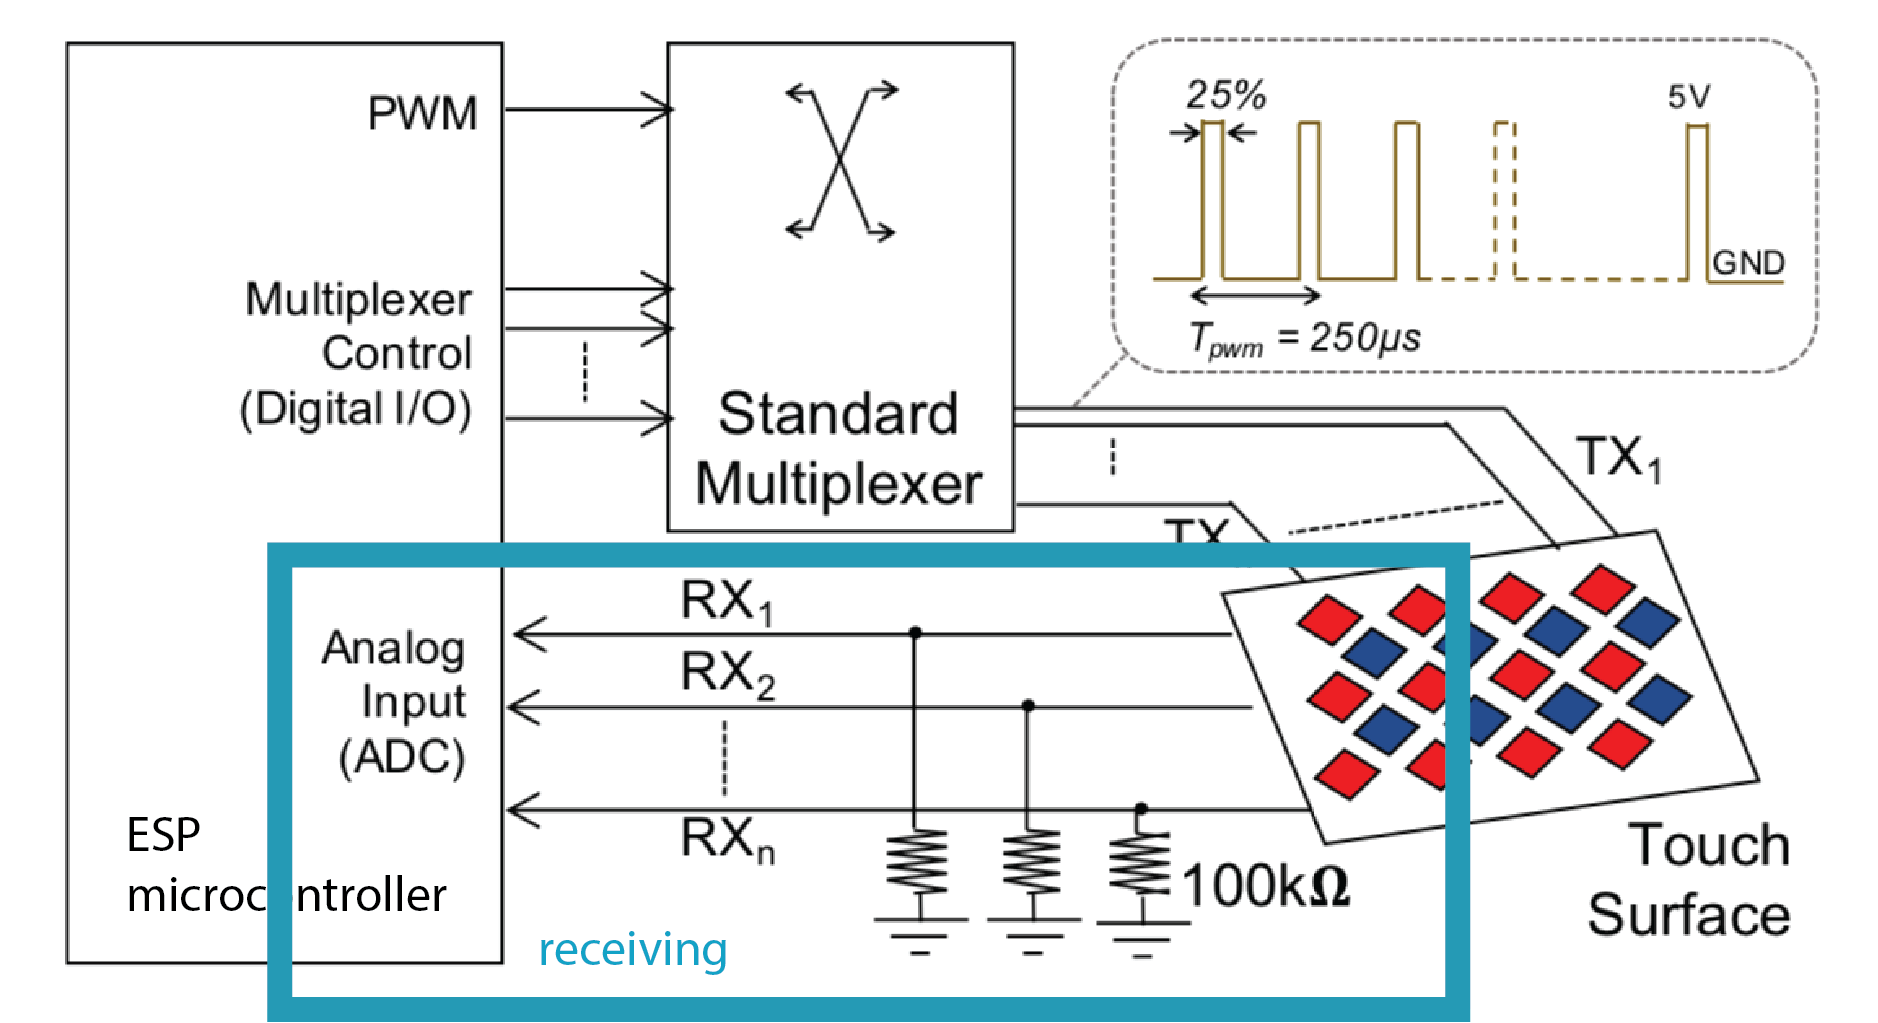
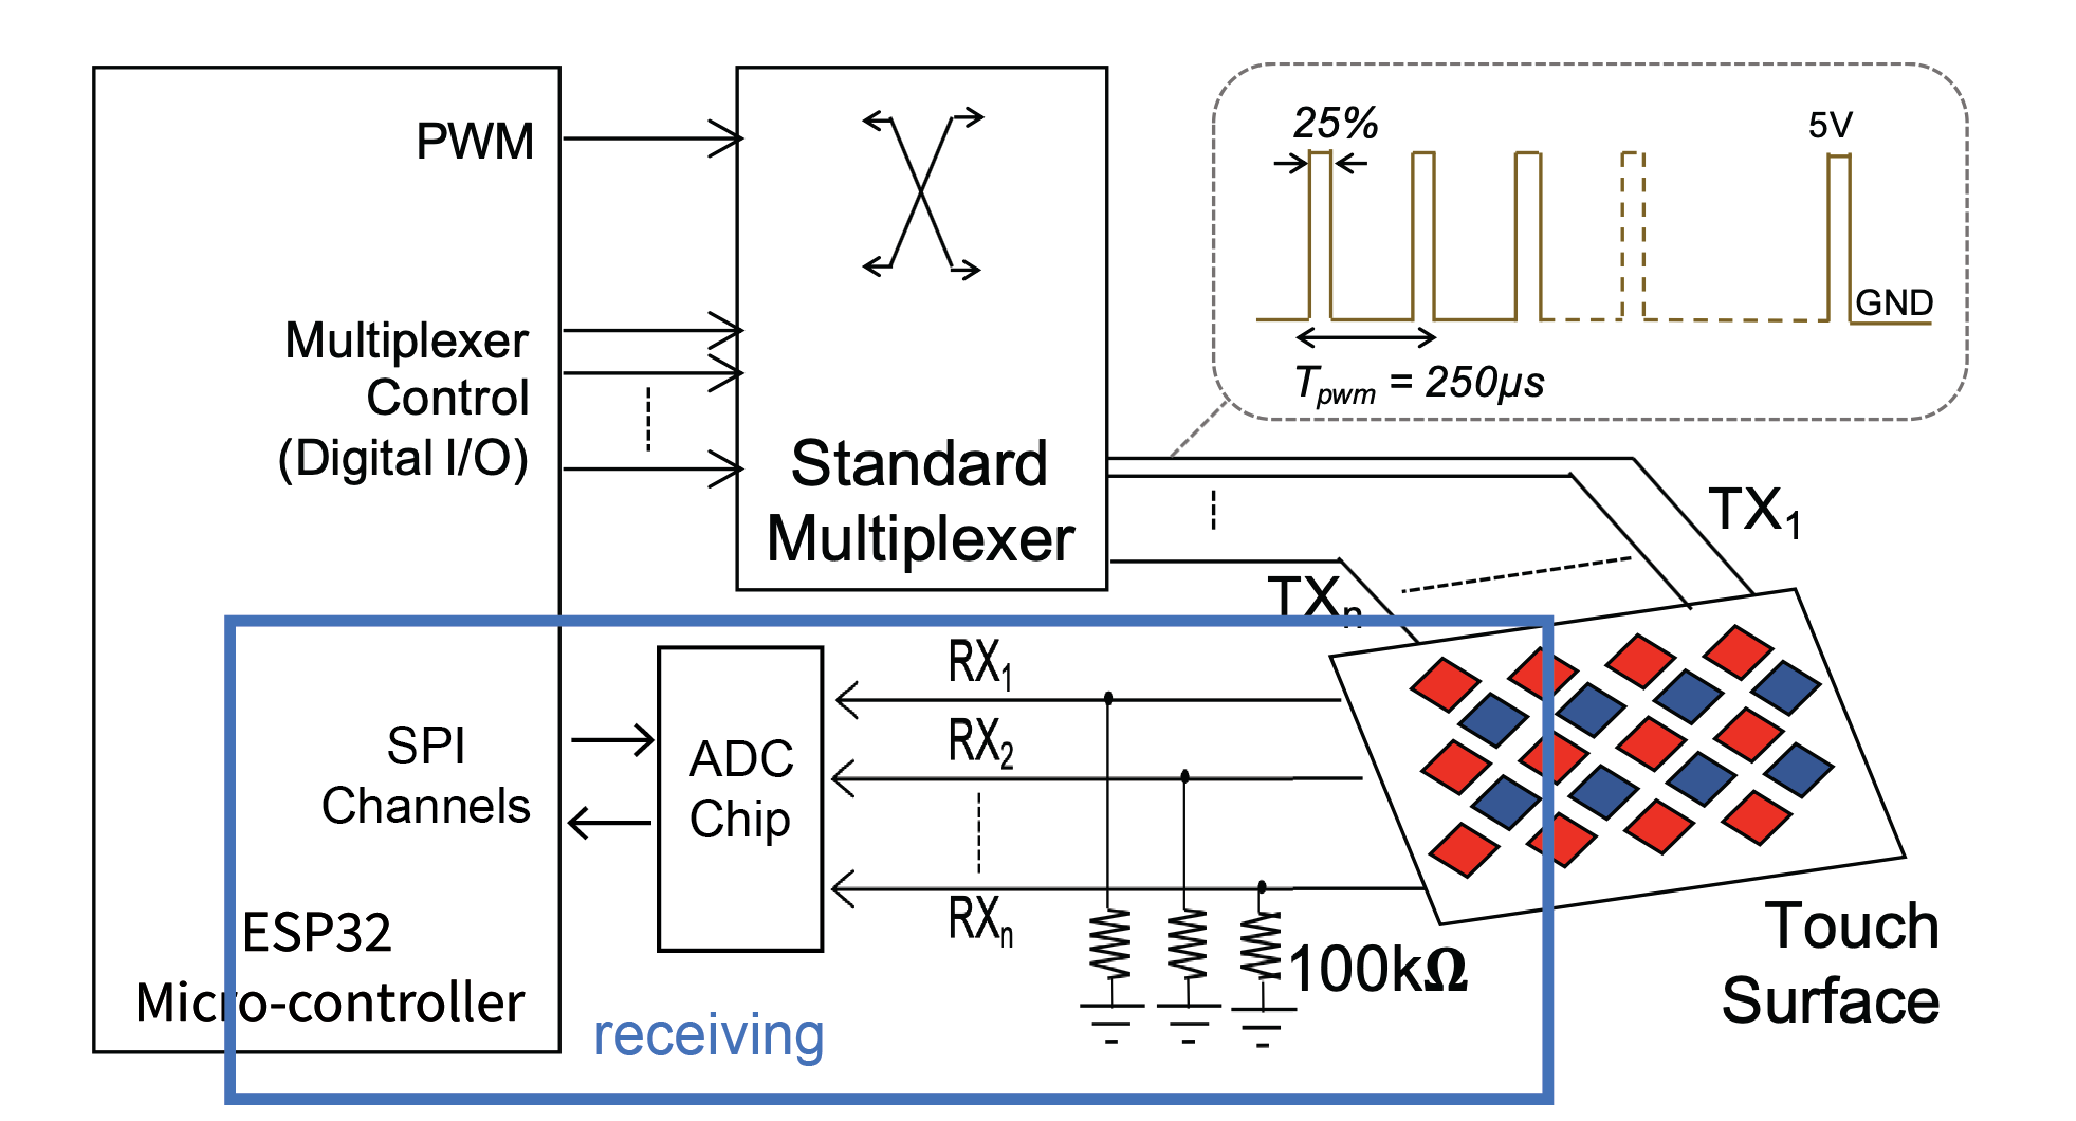
update 6810 pset3 PWM & sensing principle

Changed region(s): [[0.0309, 0.0303, 0.9574, 1.0], [0.9265, 0.7273, 0.9574, 0.7576], [0.9265, 0.3333, 0.9574, 0.3636]]

diff --git a/classes/2021-fall-6810/pset3-signal-processing.html b/classes/2021-fall-6810/pset3-signal-processing.html
@@ -70,7 +70,8 @@ In case you did not finish pset2, you can ask a TA to provide you with a wired u
 
 Let's start by writing the code that generates the PWM signal at the sender pin. <br><br>
 
-<b>Pulse Width Modulation:</b> Remember from the EL display lab that PWM is a technique that can be used to create voltages in-between 0V and 3.3V by switching the signal at the PWM pin on and off. The longer the signal is off, the lower the voltage. In the display lab we had used PWM to dim our display since the amount of voltage determines how bright the display is. <span style="color:red">Here in our multi-touch pset, we use PWM because....</span>. <span style="color:red">The PWM signals are generated by a special chip on the ESP called the LED control peripheral, which can generate up to 16 different PWM signals simultaenously. For our purposes, we only need to generate one PWM signal that will be injected into the electrode rows.</span><br><br>
+<b>Pulse Width Modulation:</b> Remember from the EL display lab that PWM is a technique that can be used to create voltages in-between 0V and 3.3V by switching the signal at the PWM pin on and off. The longer the signal is off, the lower the voltage. In the display lab we had used PWM to dim our display since the amount of voltage determines how bright the display is. Here in our multi-touch pset, we use PWM to generate a time-varying voltage at a constant frequency. As one of the physical principles of capacitive sensing, when the electric potentials on the conductors are time-varying, a current known as the displacement current flows through the capacitor, and the capacitance can be measured by observing that (displacement current). The voltage signal generated by PWM channel can act as the electric potential load between transmit and receive electrodes. <br><br>
+<!-- <span style="color:red">The PWM signals are generated by a special chip on the ESP called the LED control peripheral, which can generate up to 16 different PWM signals simultaenously. For our purposes, we only need to generate one PWM signal that will be injected into the electrode rows.</span><br><br> -->
 
 <img src="images/pset3/multitouch-schematic-sending.png" width="450px"> <img src="images/pset3/pwm-explanation.png" width="250px"> <br><br>
 
